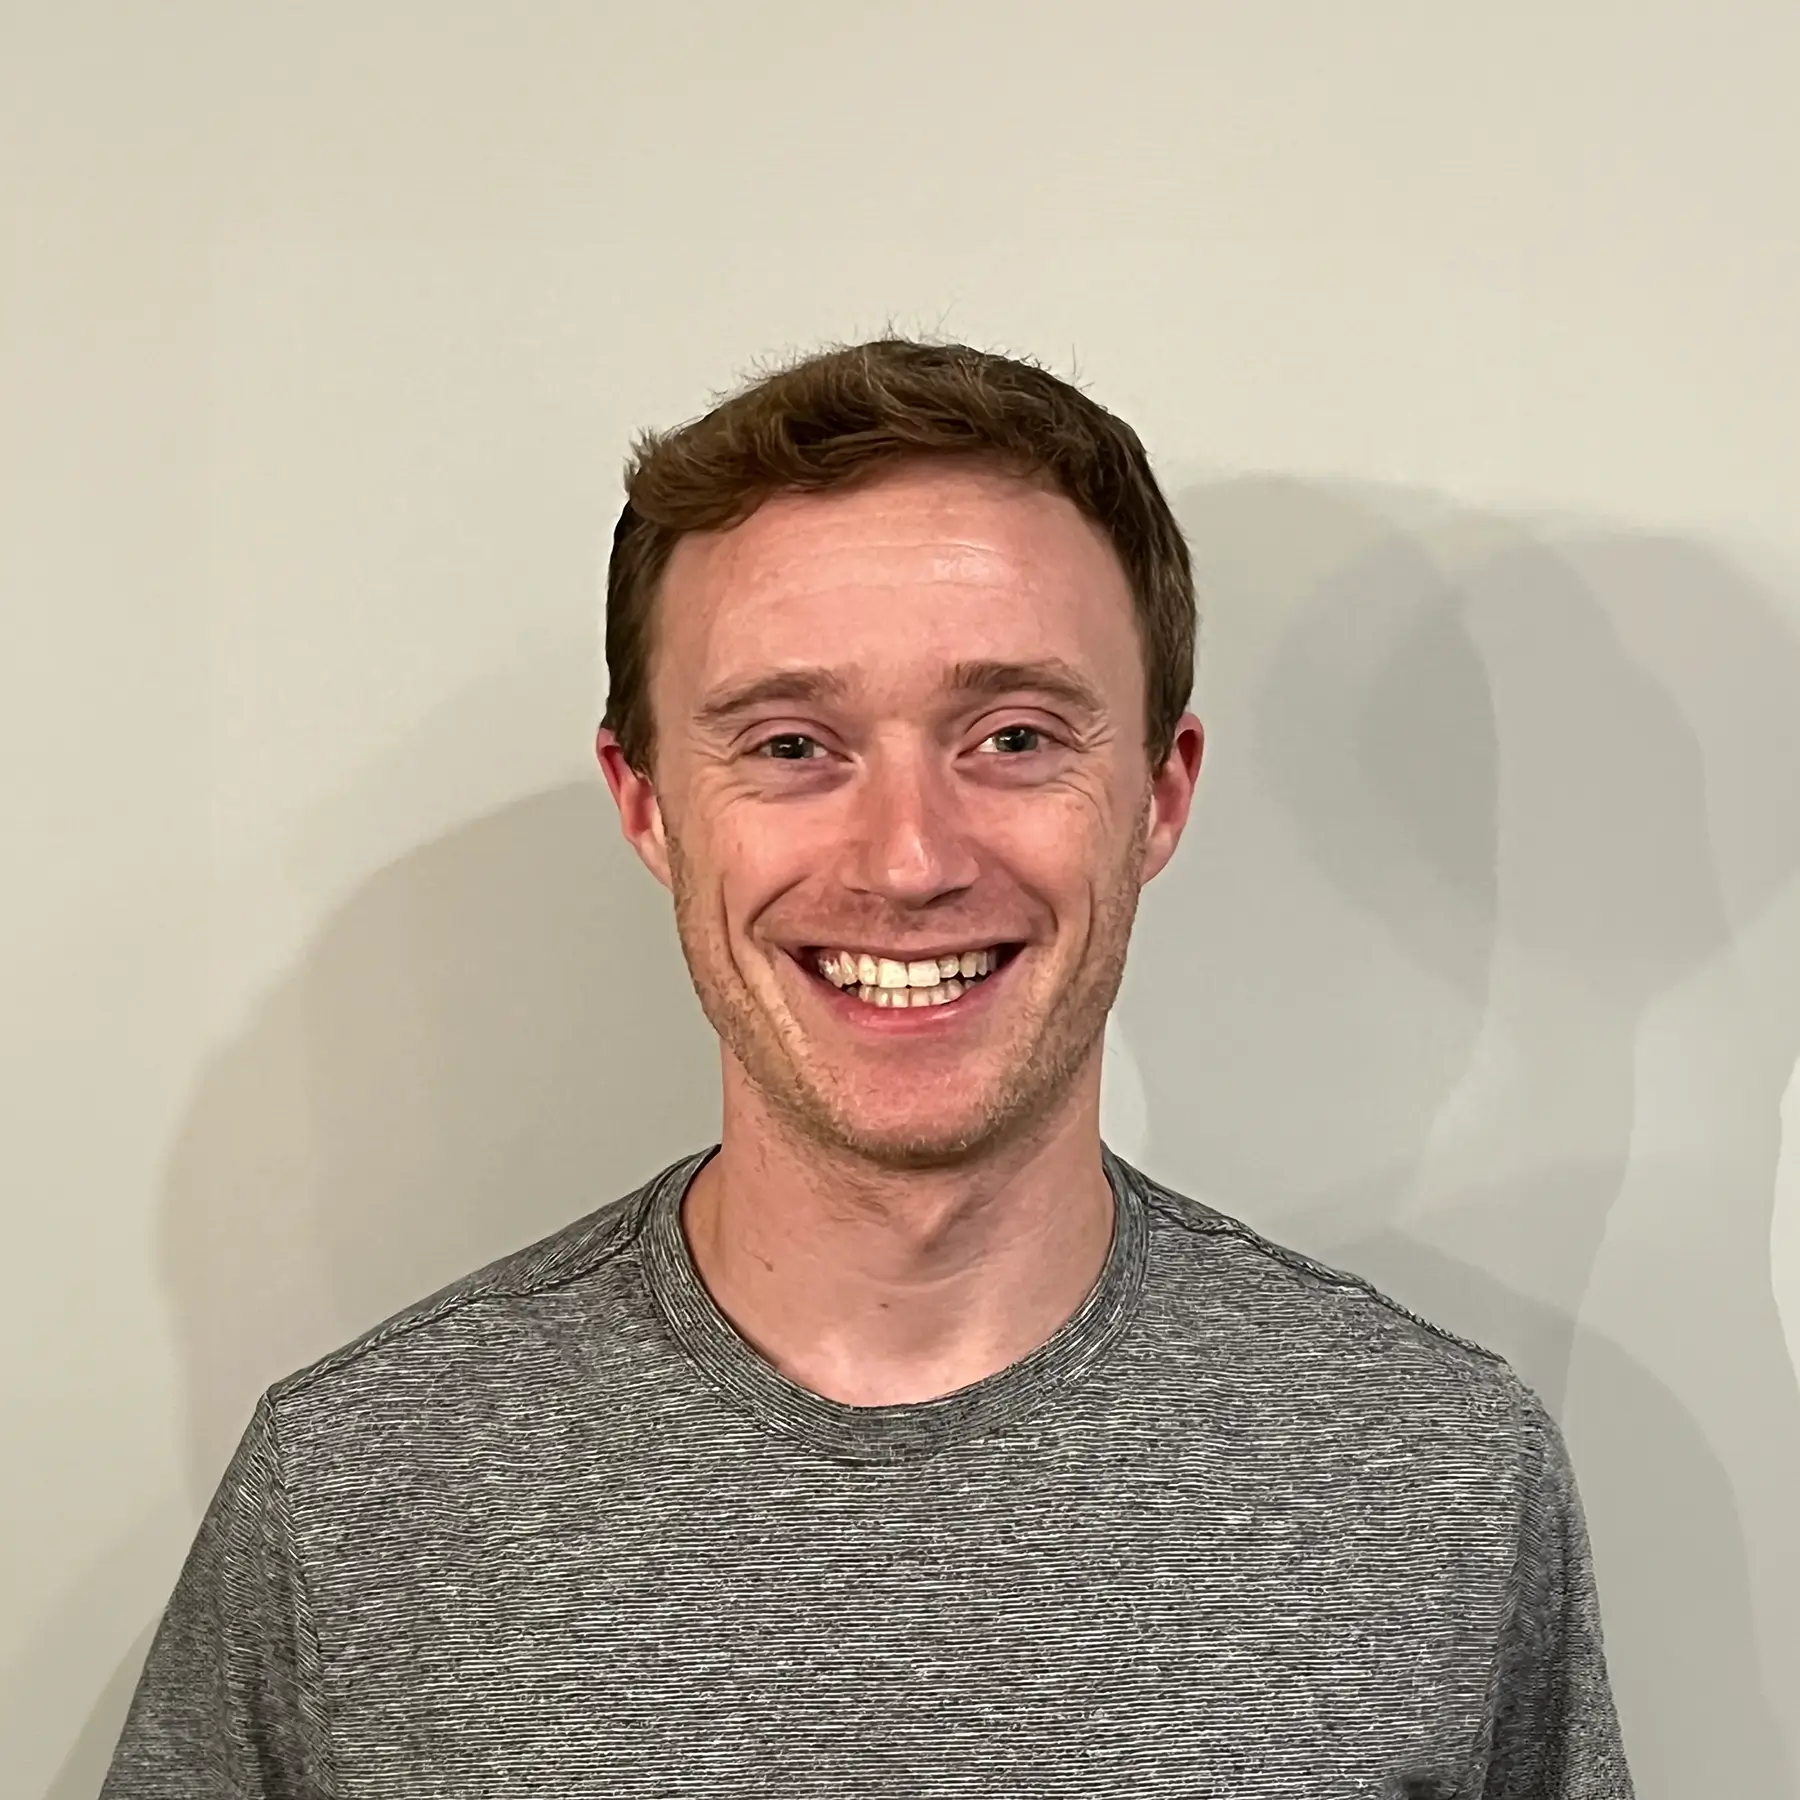
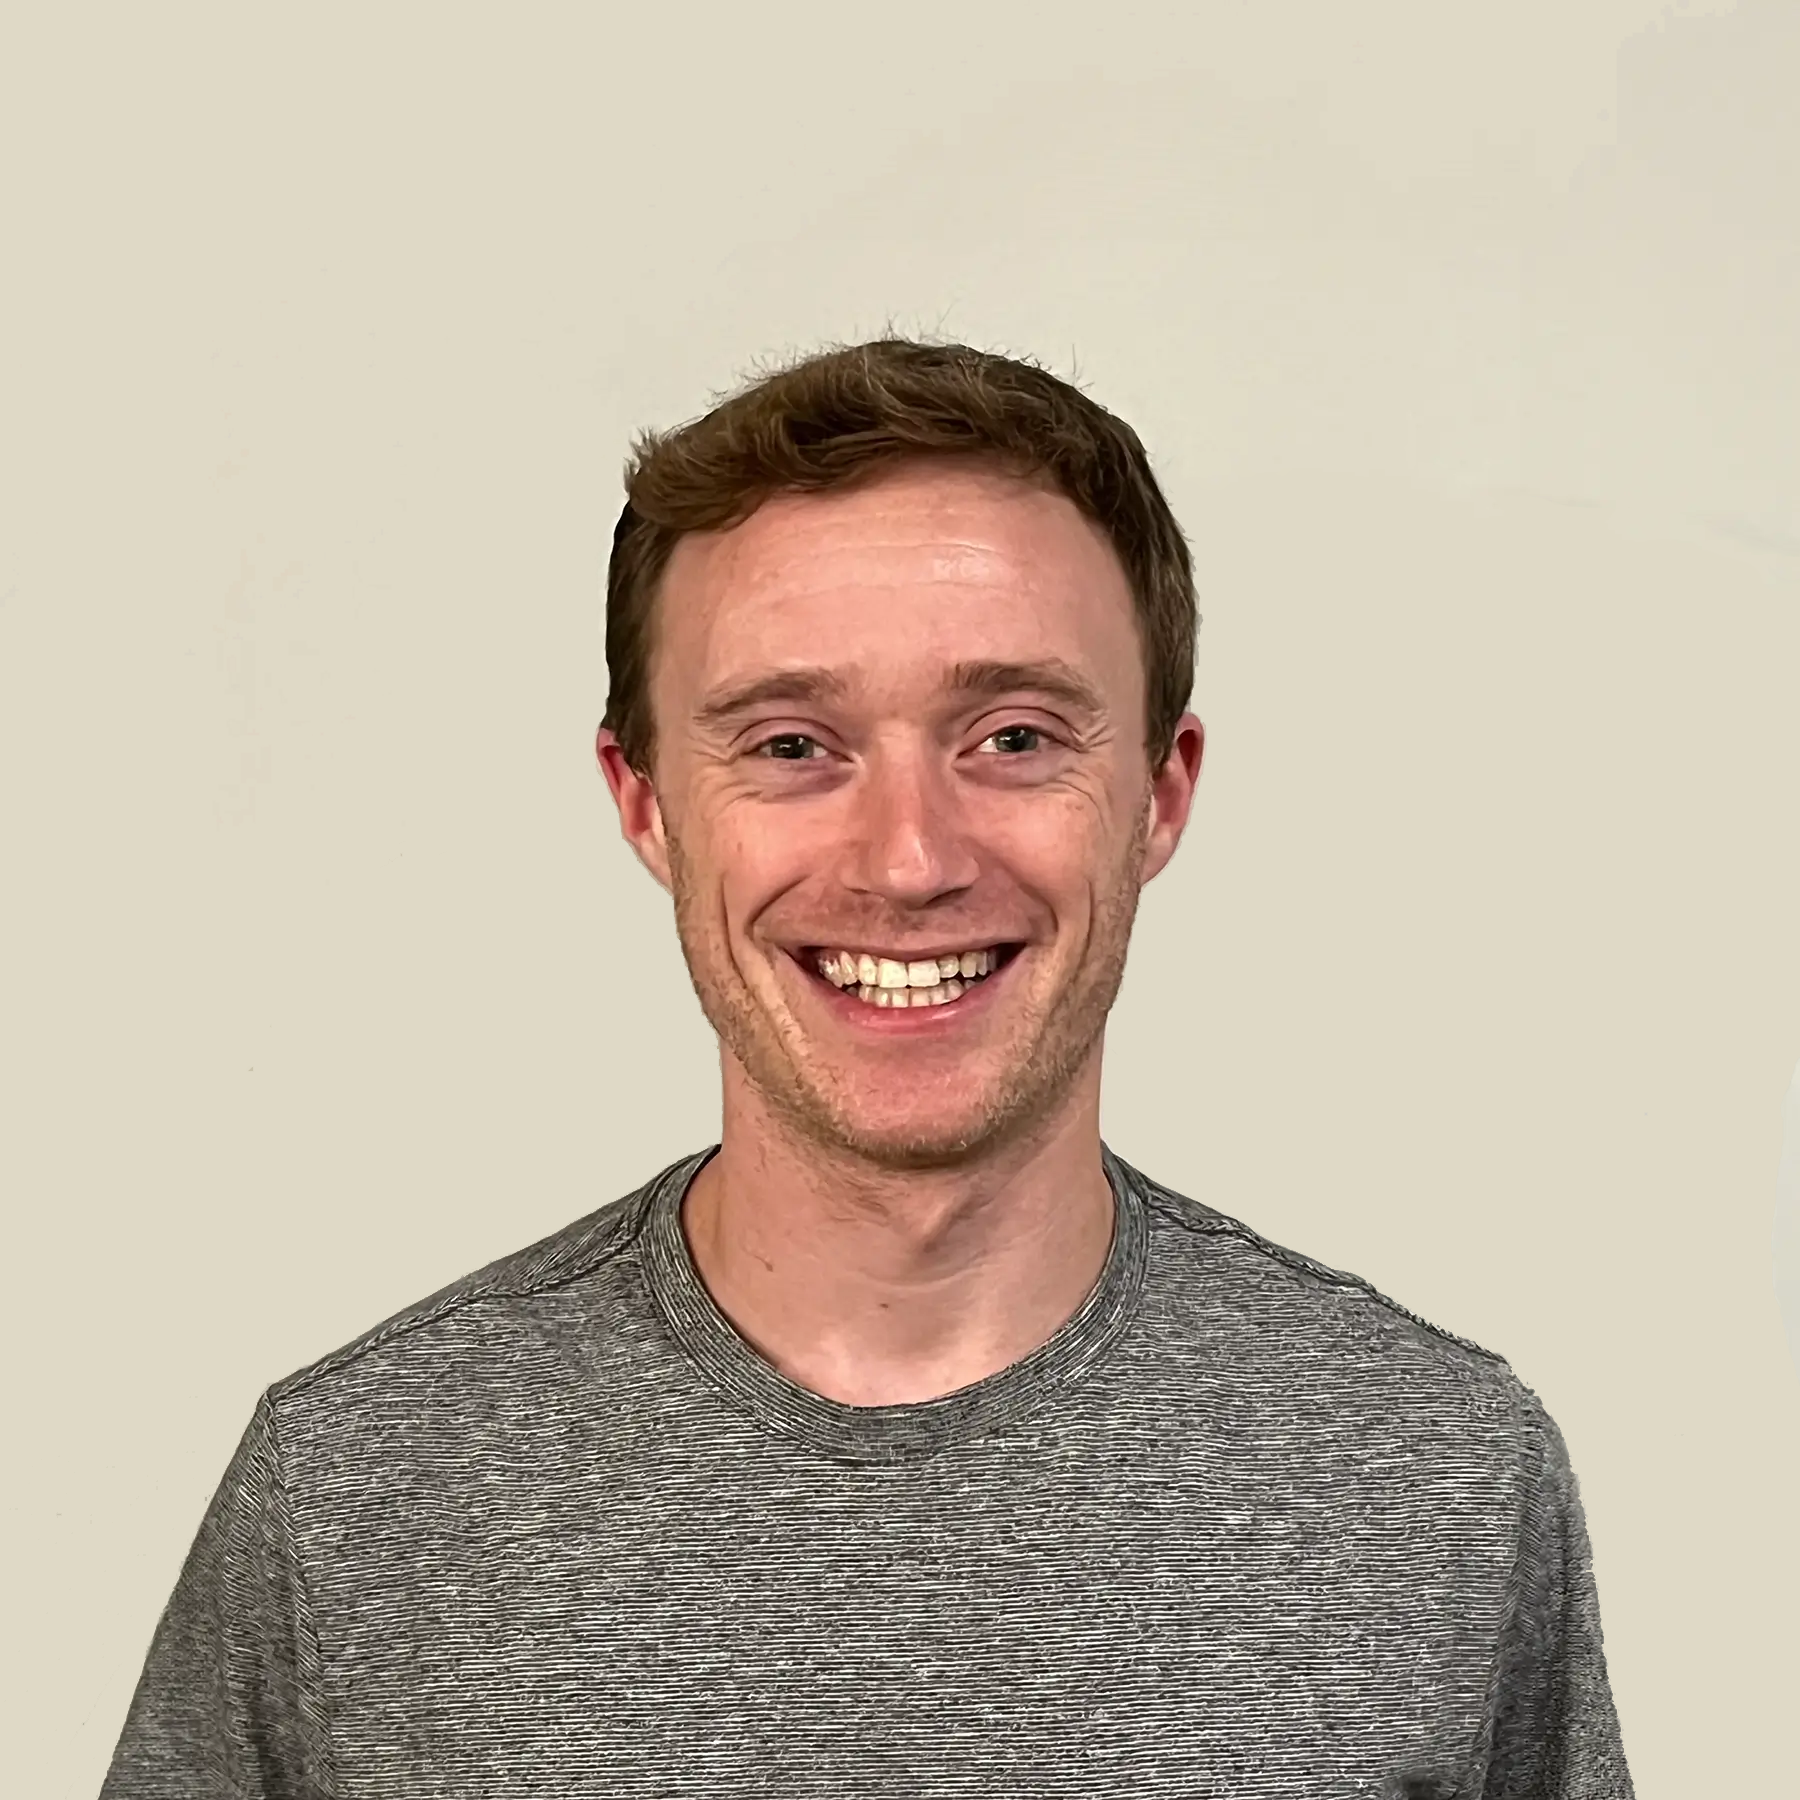
Improve text, syntax highlighting, and shadows (#2)
* Put code directly into FeatureCompare
* enable syntax highlighting
* remove andy's shadow
* Update Hero.tsx

---------

Changed region(s): [[0.6222, 0.2489, 1.0, 1.0], [0.0, 0.4044, 0.4044, 1.0]]

diff --git a/src/content/FeatureCompare.tsx b/src/content/FeatureCompare.tsx
@@ -3,12 +3,22 @@ import CharlotteStoneTablet from "../../public/Charlotte-StoneTablet.webp";
 import SectionContainer from "@/ui/SectionContainer";
 import TitleText from "@/ui/TitleText";
 import SubtitleText from "@/ui/SubtitleText";
-import { CPPExmapleCode, RustExampleCode } from "@/constants/fizzbuzz";
+import hljs from 'highlight.js/lib/core';
+import rust from 'highlight.js/lib/languages/rust';
+import c from 'highlight.js/lib/languages/c';
+import 'highlight.js/styles/shades-of-purple.css';
+// runners up for syntax highlighting:
+// import 'highlight.js/styles/agate.css';
+// import 'highlight.js/styles/devibeans.css';
+// import 'highlight.js/styles/felipec.css';
+// import 'highlight.js/styles/hybrid.css';
+// import 'highlight.js/styles/ir-black.css';
+// import 'highlight.js/styles/rainbow.css';
+// import 'highlight.js/styles/xt256.css';
+hljs.registerLanguage('rust', rust);
+hljs.registerLanguage('c', c);
 
 const FeatureCompare = () => {
-  const CPPlineArray = CPPExmapleCode.split(`(?<')(\r\n|\r|\n)(?!');)`);
-  const RustlineArray = RustExampleCode.split(`(?<')(\r\n|\r|\n)(?!');)`);
-
   return (
     <SectionContainer
       sectionName="feature-compare"
@@ -26,12 +36,31 @@ const FeatureCompare = () => {
         <div className="flex flex-col justify-center">
           <h2>Input C++</h2>
           <div className="mockup-code text-sm text-base-100 relative">
-            {CPPlineArray.map((line, i) => (
-              <pre key={i}>
-                <code>{`${line}`}</code>
-              </pre>
-            ))}
-            <div className="w-1/4 sm:w-1/3 bottom-0 right-0 scale-x-[-1] absolute">
+          <pre dangerouslySetInnerHTML={{__html:
+            hljs.highlight(`
+ void fizzbuzz(int const range) noexcept {
+    constexpr std::pair<int, char const*> pairs[] {
+      {3, "Fizz"}, {5, "Buzz"}, {7, "Fuzz"}, {13, "Bizz"}
+    };
+
+    for (int i = 1; i < range; ++i) {
+      bool none = true;
+      for (auto const& [num, str] : pairs) {
+        if (i % num == 0) {
+          std::printf("%s", str);
+          none = false;
+        } 
+      }
+
+      if (none) {
+        std::printf("%d", i); 
+      }
+      std::putchar('\\n');
+    }
+  }`.trim(), {language: 'c'}).value
+/* leading extra 1-space indent accounts for an invisible pre:: */
+          }} />
+            <div className="w-1/4 sm:w-1/3 bottom-1 right-0 scale-x-[-1] absolute">
               <Image
                 src={CharlotteStoneTablet}
                 alt="Charlotte Bronto reading a stone tablet"
@@ -42,12 +71,27 @@ const FeatureCompare = () => {
         </div>
         <div className="flex flex-col justify-center">
           <h2>BrontoSource Output</h2>
-          <div className="mockup-code bg-primary text-sm text-primary-content h-full">
-            {RustlineArray.map((line, i) => (
-              <pre key={i}>
-                <code>{`${line}`}</code>
-              </pre>
-            ))}
+          <div className="mockup-code bg-base-300 text-sm text-base-100 h-full">
+          <pre dangerouslySetInnerHTML={{__html:
+hljs.highlight(`
+pub fn fizz_buzz(n: i32) -> Vec<String> {
+    let mut result = Vec::new();
+
+    for i in 1..=n {
+      if i % 3 == 0 && i % 5 == 0 {
+        result.push("FizzBuzz".to_string());
+      } else if i % 3 == 0 {
+        result.push("Fizz".to_string());
+      } else if i % 5 == 0 {
+        result.push("Buzz".to_string());
+      } else {
+        result.push(i.to_string());
+      }
+    }
+    result
+  }`.trim(), {language: 'rust'}).value
+/* leading extra 2-space indent accounts for an invisible pre:: */
+          }} />
           </div>
         </div>
       </div>

diff --git a/src/content/Hero.tsx b/src/content/Hero.tsx
@@ -11,7 +11,7 @@ const Hero = () => {
         <div className="hero-content flex-col lg:flex-row-reverse">
           <Image
             src={SippingDrink}
-            className="max-w-sm hidden sm:block -scale-1"
+            className="max-w-sm hidden sm:block"
             alt={"Charlotte Bronto sipping a hot drink"}
             style={{
               transform: "scale(-1, 1)",
@@ -19,13 +19,19 @@ const Hero = () => {
           />
           <div>
             <TitleText sectionClasses="text-5xl font-bold text-primary">
-              Lorem, ipsum dolor sit amet consectetur adipisicing elit.
+              Modernizing old code at scale.
             </TitleText>
-            <SubtitleText sectionClasses="py-6 text-primary-content">
-              Lorem ipsum dolor sit amet consectetur adipisicing elit. Molestiae
-              iusto autem dolores quam quod, reprehenderit saepe ipsam amet
-              facere non ipsa voluptas rerum beatae ipsum dignissimos voluptatum
-              fugiat voluptates recusandae!
+            <SubtitleText sectionClasses="space-y-4 py-6 text-primary-content">
+              Legacy code is a massive source of technical, strategic, and
+              legal risk. Its costs only grow with time.
+              <p/><p/>
+              BrontoSource provides end-to-end solutions that incrementally
+              update old codebases and keep them clean into the future.
+              <p/><p/>
+              Our approach combines decades of experience keeping the world's
+              largest codebases up to date with innovative algorithms and AI
+              that provide incremental, understandable, and traceable migrations
+              that scale sublinearly in the size of the code base.
             </SubtitleText>
           </div>
         </div>

diff --git a/src/content/About.tsx b/src/content/About.tsx
@@ -56,10 +56,11 @@ const About = () => {
       <div className="text-center mb-8">
         <TitleText DarkMode>About Us</TitleText>
         <SubtitleText DarkMode>
-          Founded in September of 2024, BrontoSource is a team of energetic
-          ex-Google engineers focused on creating tools to modernize codebases
-          automatically. Our first target is automatic migration of C/C++ to
-          idiomatic Rust for large code bases.
+          Founded in September 2024, by a team of energetic ex-Google engineers.
+          We are a focused on building tools that anticipate the entire the
+          entire software lifecycle.  Collectively, we bring decades of
+          experience maintaining the world's largest codebases, keeping them
+          healthy and making them self-healing.
         </SubtitleText>
       </div>
       <div className="flex flex-col my-4 h-fit gap-y-10 gap-x-4">

diff --git a/src/app/layout.tsx b/src/app/layout.tsx
@@ -10,7 +10,7 @@ const baloo = Baloo_2({ subsets: ["latin"] });
 
 export const metadata: Metadata = {
   title: "BrontoSource",
-  description: "a system that transforms C code to idiomatic, safe Rust with a human intervention rate below 1 intervention per 100,000 lines of code that scales sublinearly in the size of the code base being migrated",
+  description: "A system that transforms C code to idiomatic, safe Rust with a human intervention rate below 1 intervention per 100,000 lines of code that scales sublinearly in the size of the code base being migrated.",
 };
 
 export default function RootLayout({
